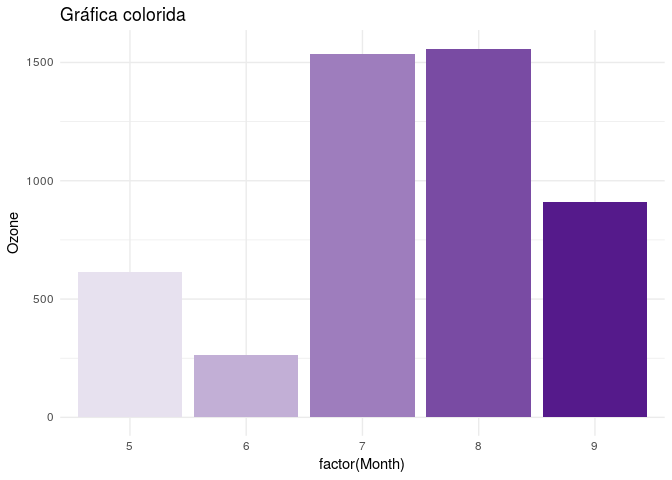
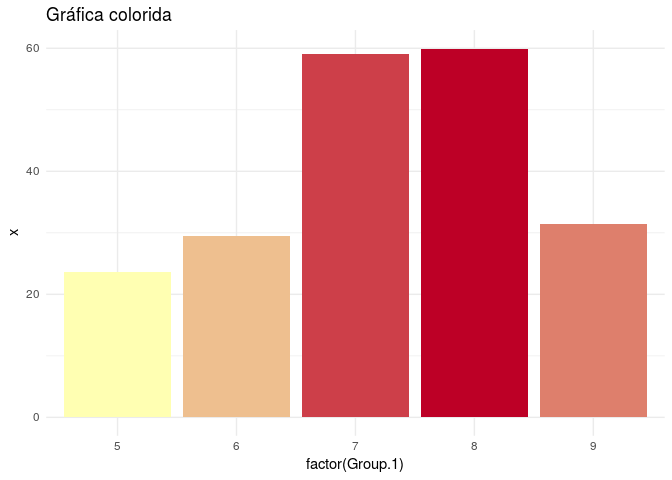
se agrega ejemplo de colores en geom_bar

diff --git a/Scalas_Bars.md b/Scalas_Bars.md
@@ -26,7 +26,7 @@ Escala discreta con *scale\_fill\_brewer* de *ggplot*
 Escala discreta con *brewer.pal* de *RcolorBrewer*
 
     library(RColorBrewer)
-    cols <- brewer.pal(length(levels(factor(airquality$Month))), "YlOrRd") # numero de niveles en el factor
+    cols <- brewer.pal(length(levels(factor(airquality$Month))), "Set1") # numero de niveles en el factor
     names(cols) <- levels(factor(airquality$Month))
     ggplot(data = airquality, aes(x = factor(Month), y = Ozone, fill = factor(Month))) +    geom_bar(stat="identity") + 
         scale_fill_manual("legend", values = cols)  +
@@ -38,12 +38,13 @@ Escala discreta con *brewer.pal* de *RcolorBrewer*
 
 Escala continua con *colorRampPalette* de *RcolorBrewer*
 
-    paleta <- colorRampPalette(c("#E7E1EF", "purple4")) # Escala continua personalizada
+    paleta <- colorRampPalette(c("#FFFFB2", "#BD0026")) # Escala continua personalizada
     cols <- paleta(length(levels(factor(airquality$Month))))
-    names(cols) <- levels(airquality$Month)
-    ggplot(data = airquality, aes(x = factor(Month), y = Ozone, fill = factor(Month))) +       geom_bar(stat="identity") + 
-            scale_fill_manual("legend", values = cols)  + theme_minimal() +  ggtitle('Gráfica colorida')+guides(fill=FALSE)
+    cuentas <- aggregate(airquality[,'Ozone' ], list(factor(airquality$Month)), mean, na.rm =TRUE)
+    names(cols) <- levels(factor(airquality$Month))[order(cuentas$x)]
 
-    ## Warning: Removed 37 rows containing missing values (position_stack).
+    ggplot(data = cuentas, aes(x = factor(Group.1), y = x, fill =factor(Group.1) )) +
+            geom_bar(stat="identity") + 
+            scale_fill_manual("legend", values = cols)  + theme_minimal() +  ggtitle('Gráfica colorida')+guides(fill=FALSE)
 
 ![](Scalas_Bars_files/figure-markdown_strict/unnamed-chunk-4-1.png)
